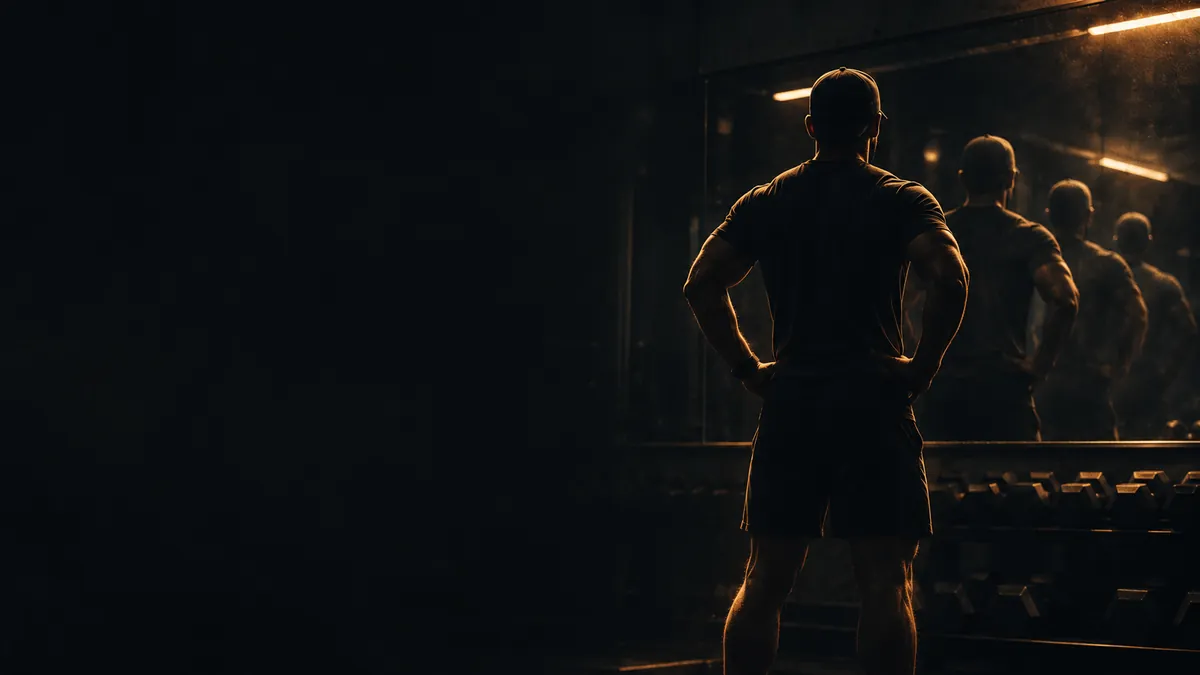
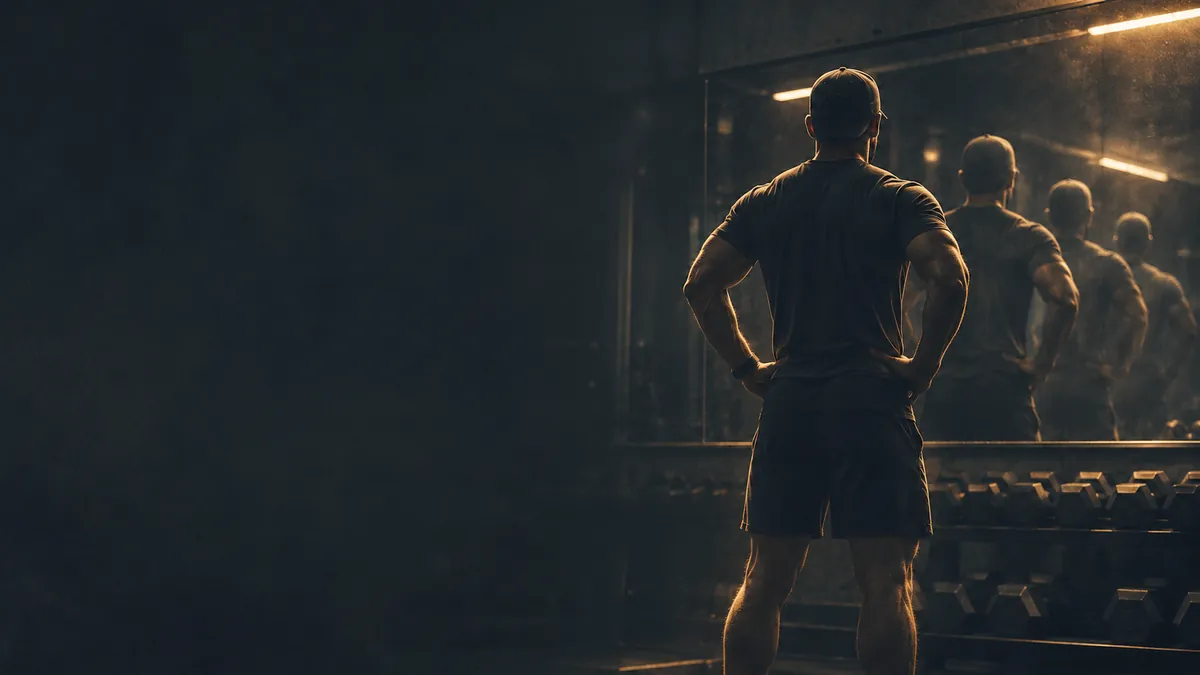
Carte ME, MYSELF & I : photo éclaircie au niveau des trois autres
Luminance de la moitié droite 22 -> 47 (POWER 47, MASS 49, FEMMES 45),
par relèvement des ombres (gamma 0,66). 1200 px 26 Ko, 640 px 10 Ko.

Claude-Session: https://claude.ai/code/session_01L6X2iAE45TnyPLJGkZBgzw

diff --git a/src/data/visuels.ts b/src/data/visuels.ts
@@ -137,8 +137,14 @@ export const VISUELS = {
   /*
    * La photo de la carte ME, MYSELF & I, page Programmes. Générée par
    * Guillaume (ChatGPT) : une silhouette de dos face au miroir, trois reflets
-   * — « me, myself and I ». Servie BRUTE comme les trois autres cartes, le
-   * voile en dégradé du code fait l'assombrissement.
+   * — « me, myself and I ». Le voile en dégradé du code fait
+   * l'assombrissement, comme pour les trois autres cartes.
+   *
+   * Une exception à « servie brute » : la générée était deux fois plus
+   * sombre que les autres (luminance moyenne de la moitié droite 22, contre
+   * 47 pour POWER, 49 pour MASS et 45 pour FEMMES). Sous le même voile, la
+   * silhouette disparaissait. Les ombres ont été relevées (gamma 0,66)
+   * jusqu'à 47 ; la lumière dorée, déjà claire, bouge peu.
    *
    * `center 10%` et non `center` : la carte fait 128 px de haut, on ne voit
    * qu'environ 60 % de la hauteur de l'image. Centré, le cadrage coupait la
